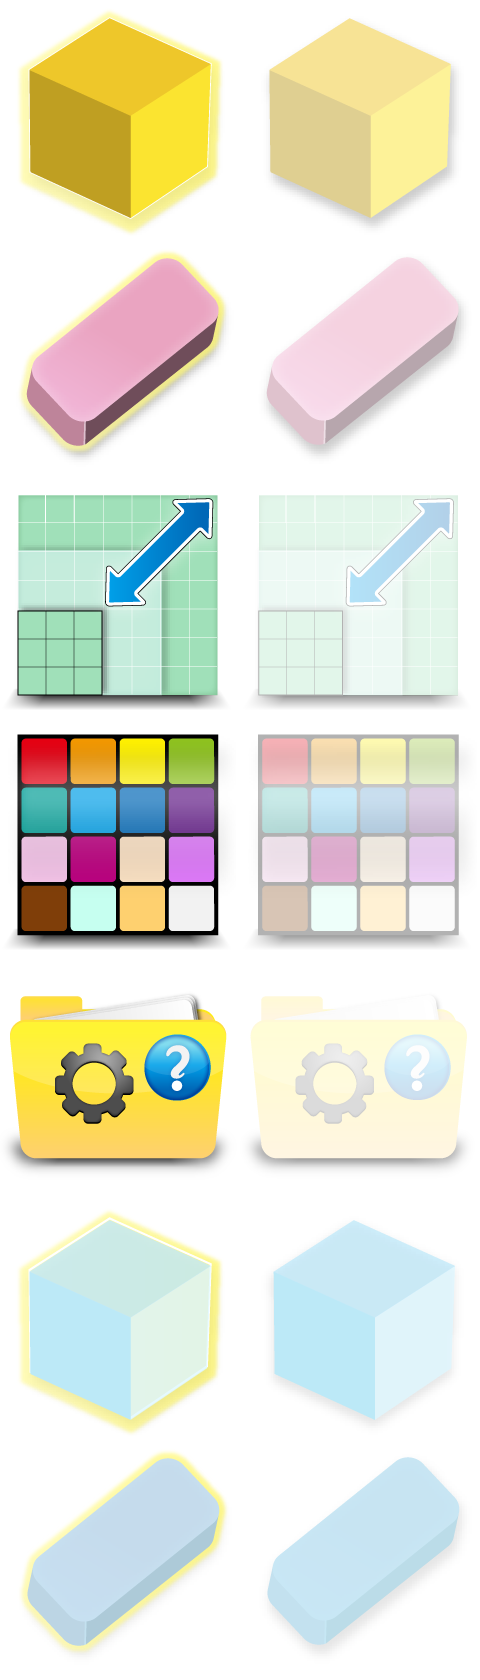
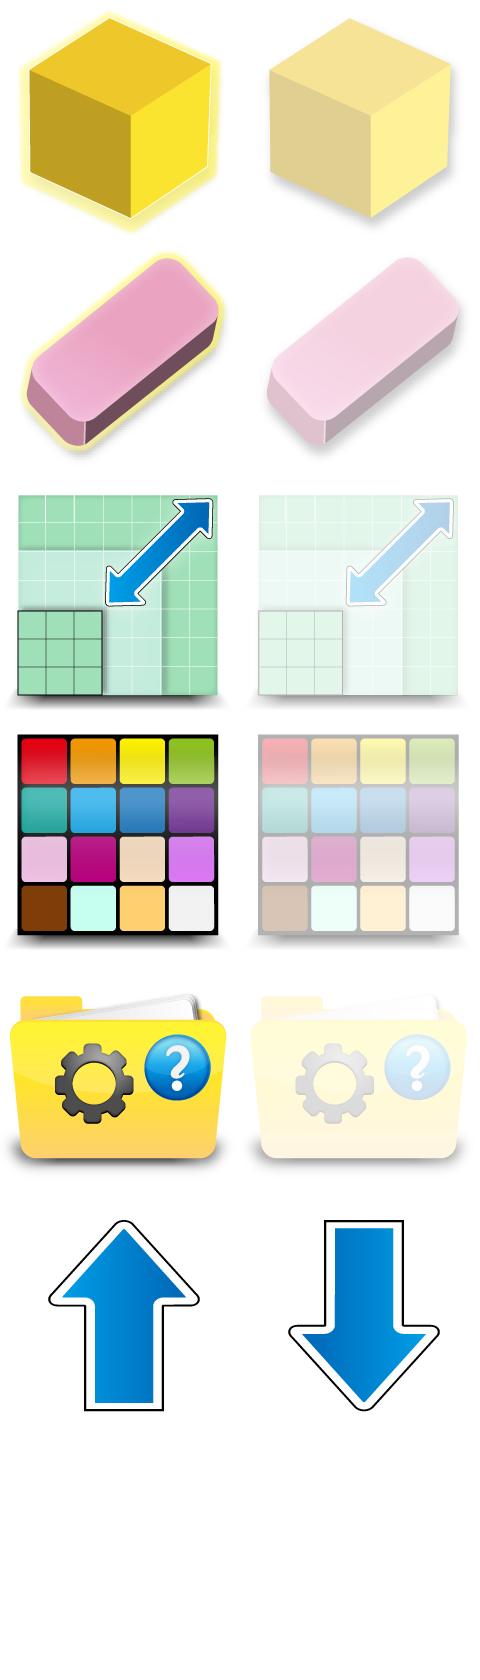
changed arrows in base size, fixed help page added preloading for images so the appear in offline-mode

Changed region(s): [[0.0312, 0.7119, 0.4688, 0.9905], [0.5625, 0.7119, 0.9688, 0.9905]]

diff --git a/index.html b/index.html
@@ -45,9 +45,9 @@
 					</div>
 					<div>
 						<div id="resize" class="innerBox">
-							<a class="sizeControl" href="#up">&#8593;</a>
+							<a class="sizeControl" href="#up"><span class="up"></span></a>
 							<span id="sizePreview" class="unselectable">10</span>
-							<a class="sizeControl" href="#down">&#8595;</a>
+							<a class="sizeControl" href="#down"><span class="down"></span></a>
 						</div>
 					</div>
 				</div>
@@ -100,7 +100,7 @@
 
 			<!-- HELP -->
 			<div id="helpModal">
-				<h1>Hjälp</h1>
+				<h1>Hjälp <span>Scrolla för att se mer...</span></h1> 
 				<div id="helpContentContainer">
 					<table id="helpContent">
 						<tbody>
@@ -137,11 +137,11 @@
 							</tr>
 							<tr class="bottomBorder">
 								<td class="helpTopic subTopic">
-								<div class="topicIconBox">
+								<div class="rensaIcon">
 									<span id="clearIcon" class="topicIcon"></span>
-								</div><h2 class="topicHeader">Rensa basplattan</h2>
-								<div class="topicText">
-									Denna knapp rensar byggutan från kuber.
+								</div><h2 class="topicHeaderRensa">Rensa basplattan</h2>
+								<div class="topicTextRensa">
+									Denna knapp rensar byggytan från kuber.
 								</div></td>
 							</tr>
 							<tr class="bottomBorder">
@@ -164,7 +164,7 @@
 							</tr>
 							<tr>
 								<td class="helpTopic subTopic">
-								<div class="topicIconBox">
+								<div class="subTopicIconBox">
 									<span id="loadIcon" class="topicIcon"></span>
 								</div><h2 class="topicHeader">Hämta modell</h2>
 								<div class="topicText">
@@ -176,7 +176,7 @@
 							</tr>
 							<tr>
 								<td class="helpTopic subTopic">
-								<div class="topicIconBox">
+								<div class="subTopicIconBox">
 									<span id="saveIcon" class="topicIcon"></span>
 								</div><h2 class="topicHeader">Spara modell</h2>
 								<div class="topicText">
@@ -186,7 +186,7 @@
 							</tr>
 							<tr>
 								<td class="helpTopic subTopic">
-								<div class="topicIconBox">
+								<div class="subTopicIconBox">
 									<span id="printIcon" class="topicIcon"></span>
 								</div><h2 class="topicHeader">Skriv ut</h2>
 								<div class="topicText">
@@ -223,9 +223,12 @@
 			</li>
 			<li>
 				<a id="colors" class="modalOption" href="#colorsContainer"></a>
+				<span class="preloadingRandomIcon"></span>
 			</li>
 			<li>
 				<a id="settings" class="modalOption" href="#settingsContainer"></a>
+				<span class="preloadingSettingsSprite"></span>
+				<span class="preloadingRensa"></span>
 			</li>
 		</ul>
 

diff --git a/public/css/main.css b/public/css/main.css
@@ -92,6 +92,21 @@ body a {
 	margin: 5%;
 }
 
+
+.preloadingRandomIcon{
+	background-image: url('../img/random-color.png');
+} 
+.preloadingRensa { 
+	background-image: url('../img/clearBase-icon.png');
+	}
+	
+.preloadingSettingsSprite {
+	background-image: url('../img/settings-icons.png');
+}
+.preloadingSettingsSprite, .preloadingRandomIcon, .preloadingRensa{
+	background-repeat: no-repeat;
+	background-position: -9999px -9999px;
+}
 #cube, #erase, #base, #settings, #colors {
 	background-image: url('../img/Ikoner.png');
 	background-size: 200%;
@@ -455,6 +470,22 @@ body a {
 	padding-top: 0;
 	font-weight: bold;
 }
+#baseModal div div a {
+		overflow:hidden;
+}
+#baseModal .up, #baseModal .down {
+		width:25%; 
+		padding:12%;
+		background-size: 200%;
+		background-image: url('../img/Ikoner.png');
+}
+#baseModal .up {
+	background-position: 200% 88%;
+}
+#baseModal .down {
+	background-position: 100% 88%;
+}
+
 #preview {
 	height: 100%;
 	width: 100%;
@@ -596,17 +627,22 @@ body a {
 }
 #helpModal > h1 {
 	position: absolute;
-	height: 40px;
+	padding:5px 0 15px 0;
 	width: 100%;
+	height:50px,
 	top: 0;
 	left: 0;
 	background-color: #aaa;
 	margin: 0;
 	border-radius: 10px 10px 0 0;
 }
+#helpModal h1 span{
+	font-size:0.6em;
+	color:#555;
+}
 #helpContentContainer {
 	position: absolute;
-	top: 40px;
+	top: 45px;
 	bottom: 10px;
 	left: 0;
 	width: 100%;
@@ -666,6 +702,17 @@ body a {
 	position: relative;
 	float: left;
 }
+.subTopicIconBox, .rensaIcon {
+	width: 10%;
+	padding-top: 8%;
+	margin-top:1%;
+	position: relative;
+	float: left;
+}
+.rensaIcon{
+	width:18%; margin-right:2%;
+	margin-left:-1%;
+}
 .topicIcon {
 	position: absolute;
     top: 0;
@@ -697,6 +744,7 @@ body a {
 #clearIcon {
 	background-image: url('../img/clearBase-icon.png');
 	background-size: 100%;
+	background-repeat:no-repeat;
 }
 #loadIcon {
 	background-image: url('../img/settings-icons.png');
@@ -713,17 +761,21 @@ body a {
 	background-size: 200%;
 	background-position:0 100%;
 }
-.topicHeader {
+.topicHeader, .topicHeaderRensa {
 	padding-top:20px;
 	width: 87%;
 	float: right;
 	margin-top: 0;
 }
-.topicText {
+.topicText, .topicTextRensa {
 	width: 87%;
 	float: right;
 	clear: right;
 }
+.topicTextRensa, .topicHeaderRensa  {
+	width: 80%;
+}
+
 /* Help modal end ---------------------------------------------------------------------*/
 
 
